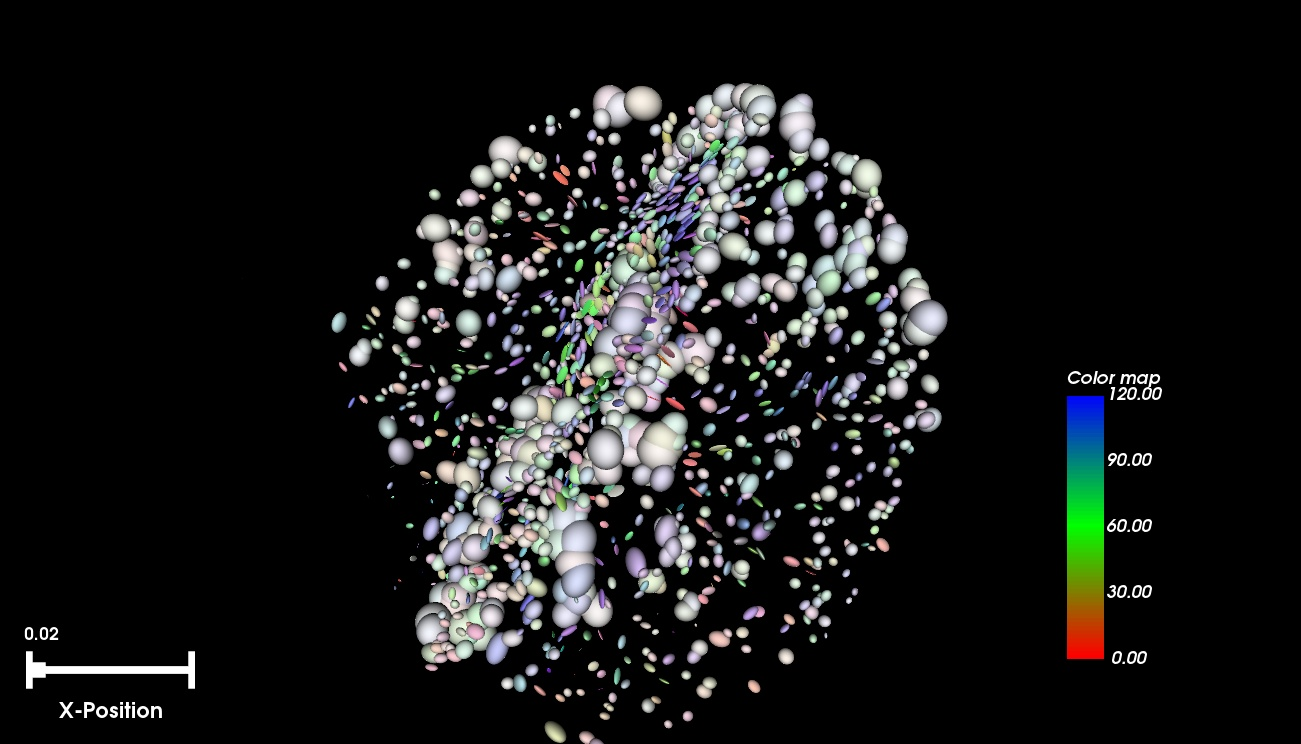
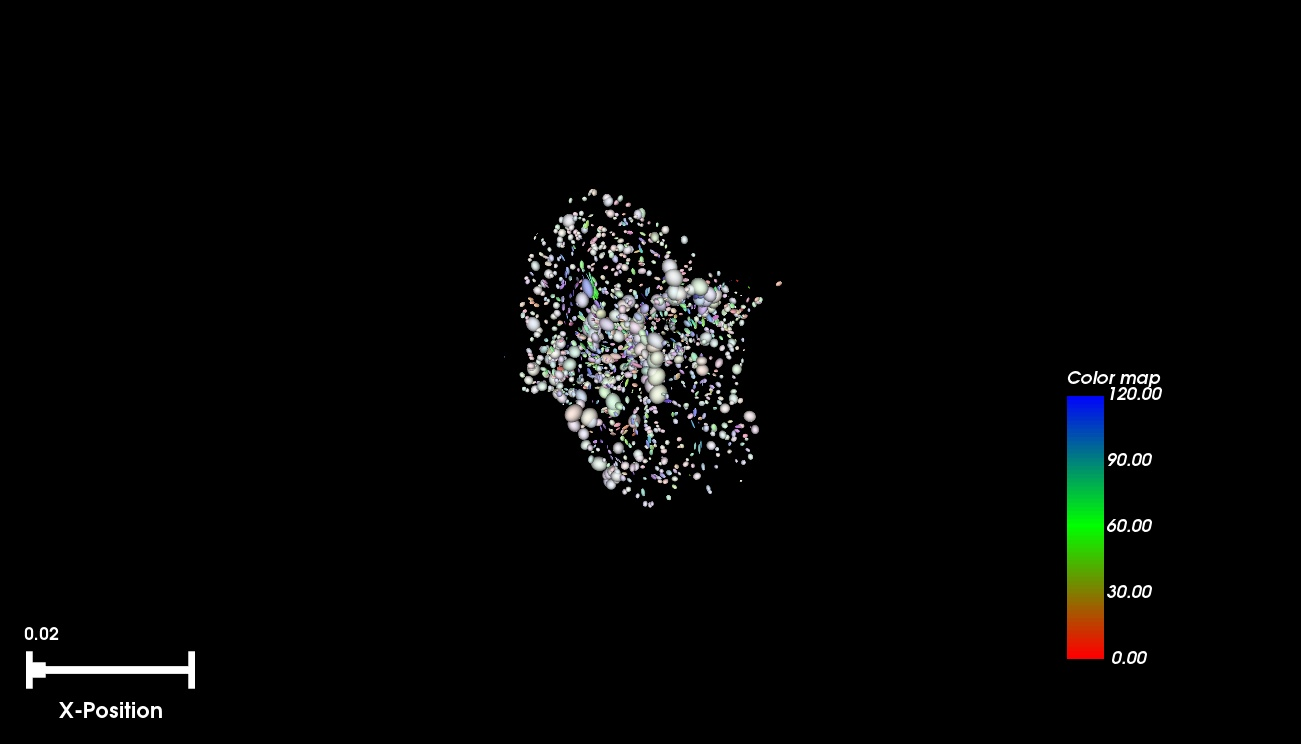
Task 1 complete, need screenshots

Changed region(s): [[0.246, 0.0927, 0.7379, 1.0]]

diff --git a/tensor_glyphs.py b/tensor_glyphs.py
@@ -43,9 +43,9 @@ class ImageModification(object):
                 y=130.0
                 z=0.0
             if i==2:
-                x=130.0
-                y=130.0
-                z=130.0
+                x=0.0
+                y=0.0
+                z=65.0
 
             plane_mapper=self.create_cut_acto_plane(x,y,z,i)
             ren.AddActor(self.create_glyph(plane_mapper))
@@ -63,14 +63,14 @@ class ImageModification(object):
 
         iren.AddObserver('RightButtonPressEvent', self.capture_image, 1.0)
 
-
+        """
         #Slider 1
         sliderRep1=vtk.vtkSliderWidget()
         sliderRep1.SetInteractor(iren)
         sliderRep1.SetRepresentation(self.create_color_slider("X-Position",0.02,0.15,0,220))
         sliderRep1.SetEnabled(True)
         sliderRep1.AddObserver("InteractionEvent", self.change_iso)
-
+        """
 
 
         # Scalar Bar actor
@@ -131,7 +131,7 @@ class ImageModification(object):
         ptMask = vtk.vtkMaskPoints()
         ptMask.SetInputConnection(plane_mapper.GetOutputPort())
         ptMask.SetOnRatio(10)
-        #ptMask.RandomModeOn()
+        ptMask.RandomModeOn()
 
 
         arrows = vtk.vtkSphereSource()
@@ -144,7 +144,7 @@ class ImageModification(object):
 
         glyph = vtk.vtkTensorGlyph()
         glyph.SetSourceConnection(arrows.GetOutputPort())
-        glyph.SetInputConnection(plane_mapper.GetOutputPort())
+        glyph.SetInputConnection(ptMask.GetOutputPort())
         glyph.SetScaleFactor(10)
         glyph.ColorGlyphsOn()
         glyph.SetColorModeToEigenvector()
@@ -175,7 +175,7 @@ class ImageModification(object):
         if plane_id==1:
             plane.SetNormal(0,1,0)
         if plane_id==2:
-            plane.SetNormal(0.5,0.5,0)
+            plane.SetNormal(0.0,0.0,1)
 
         #create cutter
         cutter=vtk.vtkCutter()
@@ -188,10 +188,6 @@ class ImageModification(object):
         probe_filter=vtk.vtkProbeFilter()
         probe_filter.SetInputConnection(cutter.GetOutputPort())
         probe_filter.SetSourceConnection(self.dti_reader.GetOutputPort())
-
-
-        if plane_id==0:
-            self.plane1=plane
 
 
         return probe_filter
